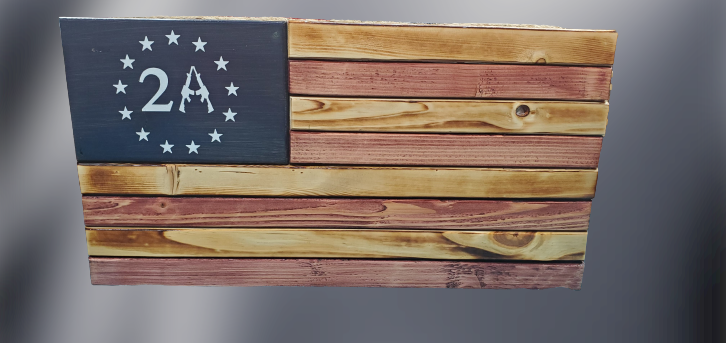
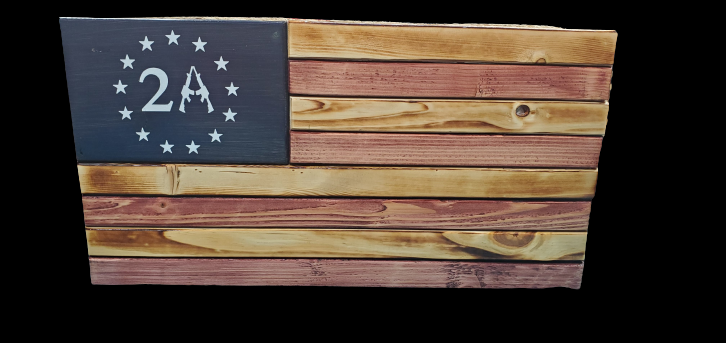
Updated catalog to have actual catalog images, updated order form for additional theme, awaiting 7th theme.

diff --git a/Ordering.html b/Ordering.html
@@ -40,6 +40,10 @@
                     <img class="image" src="./Assets/star5.jpg" />
                     <figcaption>Star 5</figcaption>
                 </figure>
+                <figure>
+                    <img class="image" src="./Assets/star6.png" />
+                    <figcaption>Star 6</figcaption>
+                </figure>
             </section>
             <p><strong>Stripes</strong></p>
             <section class="stripes">
@@ -183,18 +187,25 @@
                     <figcaption>Theme 5</figcaption>
                 </figure>
                 <figure>
+                    <img class="theme" src="./Assets/themes6.png" />
+                    <figcaption>Theme 6</figcaption>
             </section>
             <!-- <p><strong>Sizes</strong></p>
             <section class="sizes">
             </section> -->
         </section>
         <section class="orderForm">
-                            <div class="shipPay">
-                                <p>Shipping is Available!</p>
-                                <p>Payments are accepted by Credit or Debit card using Square <img class="logothumb" src="./Assets/Logos/SquaeLogo.jpg" alt= "Square" style="height: 25px; width: 25px"/>.</p>
-                                <p>I also accept: <img class="logothumb" src="./Assets/Logos/VenmoLogo.png" alt = "Venmo" style="height: 25px; width: 25px"/>, <img class="logothumb" src="./Assets/Logos/PayPalLogo.jpg" alt = "PayPal" style="height: 25px; width: 25px"/>, and <img class="logothumb" src="./Assets/Logos/CashAppLogo.png" alt="CashApp" style="height: 25px; width: 25px"/> for your convenience.</p>
-                                <p>What are we building today?</p>
-                            </div>
+            <div class="shipPay">
+                <p>Shipping is Available!</p>
+                <p>Payments are accepted by Credit or Debit card using Square <img class="logothumb"
+                        src="./Assets/Logos/SquaeLogo.jpg" alt="Square" style="height: 25px; width: 25px" />.</p>
+                <p>I also accept: <img class="logothumb" src="./Assets/Logos/VenmoLogo.png" alt="Venmo"
+                        style="height: 25px; width: 25px" />, <img class="logothumb" src="./Assets/Logos/PayPalLogo.jpg"
+                        alt="PayPal" style="height: 25px; width: 25px" />, and <img class="logothumb"
+                        src="./Assets/Logos/CashAppLogo.png" alt="CashApp" style="height: 25px; width: 25px" /> for your
+                    convenience.</p>
+                <p>What are we building today?</p>
+            </div>
             <form action="https://formspree.io/f/xwkyryzv" method="POST">
                 <p>
                     <label>Your email:</label>
@@ -212,6 +223,7 @@
                         <option value="Star3">Star 3</option>
                         <option value="Star4">Star 4</option>
                         <option value="Star5">Star 5</option>
+                        <option value="Star6">Star 6</option>
                     </select>
 
                 </p>
@@ -264,6 +276,12 @@
 
                 </p>
                 <p>
+                    <label>Themes:</label>
+                    <select name="theme" id="theme">
+                        
+                    </select>
+                </p>
+                <p>
                     <label>Size:</label>
                     <select name="size" id="size">
                         <option value="custom">Custom</option>
@@ -278,7 +296,7 @@
                     <label>Your message:</label>
                     <textarea name="message" placeholder="Any customization not covered above will go here."></textarea>
                 </p>
-                <br/>
+                <br />
                 <div class="button">
                     <div class="buttonRow">
                         <button type="submit" class="btn-primary">Send</button>

diff --git a/Catalog.html b/Catalog.html
@@ -16,38 +16,31 @@
         </nav>
     </header>
     <main class="main">
-      <h1 class="underconstruction">Pardon the mess as the catalog is gathered, collated and created!</h1>
-      <p>Group 1</p>
+      <h1>Welcome to the catalog, home of dreams come true.</h1>
       <section class="projects">
-            <img class="image" src="./Assets/Img3.jpg"/>
-            <img class="image" src="./Assets/Img1.jpg"/>
-            <img class="image" src="./Assets/Img2.jpg"/>
-            <img class="image" src="./Assets/Img4.jpg"/>
-            <img class="image" src="./Assets/Img5.jpg"/>
-            <img class="image" src="./Assets/Img7.jpg"/>
-            <img class="image" src="./Assets/Img6.jpg"/>
-            <img class="image" src="./Assets/Img8.jpg"/>
-            <img class="image" src="./Assets/Img9.jpg"/>
-            <img class="image" src="./Assets/Img10.jpg"/>
+            <img class="image" src="./Assets/catalog8.jpg"/>
+            <img class="image" src="./Assets/noflag1.png"/>
+            <img class="image" src="./Assets/noflag2.png"/>
+            <img class="image" src="./Assets/noflagcamp.jpg"/>
+            <img class="image" src="./Assets/noflagcrackerbox.png"/>
+            <img class="image" src="./Assets/noflagiu.png"/>
+            <img class="image" src="./Assets/noflagjack.jpg"/>
+            <img class="image" src="./Assets/noflagranch.png"/>
     </section>
 
-            <p>Group 2</p>
+            <p>Flags</p>
     <section class="projects">
-            <img class="image" src="./Assets/Img3.jpg"/>
-            <img class="image" src="./Assets/Img1.jpg"/>
-            <img class="image" src="./Assets/Img2.jpg"/>
-            <img class="image" src="./Assets/Img4.jpg"/>
-            <img class="image" src="./Assets/Img5.jpg"/>
-            <img class="image" src="./Assets/Img7.jpg"/>
-            <img class="image" src="./Assets/Img6.jpg"/>
-            <img class="image" src="./Assets/Img8.jpg"/>
-            <img class="image" src="./Assets/Img9.jpg"/>
-            <img class="image" src="./Assets/Img10.jpg"/>
-    </section>
-            <p>Group 3</p>
-    <section class="projects">
-            <img class="image" src="./Assets/Img3.jpg"/>
-            <img class="image" src="./Assets/Img1.jpg"/>
+            <img class="image" src="./Assets/catalog1.png"/>
+            <img class="image" src="./Assets/catalog2.png"/>
+            <img class="image" src="./Assets/catalog3.png"/>
+            <img class="image" src="./Assets/catalog4.png"/>
+            <img class="image" src="./Assets/catalog5.png"/>
+            <img class="image" src="./Assets/catalog6.png"/>
+            <img class="image" src="./Assets/catalog7.png"/>
+            <img class="image" src="./Assets/catalog9.png"/>
+            <img class="image" src="./Assets/catalog10.png"/>
+            <img class="image" src="./Assets/catalog11.png"/>
+            <!-- <img class="image" src="./Assets/Img1.jpg"/>
             <img class="image" src="./Assets/Img2.jpg"/>
             <img class="image" src="./Assets/Img4.jpg"/>
             <img class="image" src="./Assets/Img5.jpg"/>
@@ -94,7 +87,7 @@
             <img class="image" src="./Assets/Img6.jpg"/>
             <img class="image" src="./Assets/Img8.jpg"/>
             <img class="image" src="./Assets/Img9.jpg"/>
-            <img class="image" src="./Assets/Img10.jpg"/>
+            <img class="image" src="./Assets/Img10.jpg"/> -->
       </section>
     </main>
 </body>

diff --git a/Styles/Ordering.css b/Styles/Ordering.css
@@ -9,8 +9,8 @@
 
 body {
     height: auto;
-    background-image: url('../Assets/Orderbg.jpg');
-        background-size: cover;
+    background-color: black;
+    color: white;
 }
 
 html {
@@ -66,8 +66,8 @@ h1 {
 }
 
 .options img {
-    height: 100px;
-    width: 100px;
+    height: 300px;
+    width: 400px;
     margin:20px;
     border: 1px solid silver;
 }

diff --git a/Styles/Catalog.css b/Styles/Catalog.css
@@ -71,8 +71,8 @@ p {
     margin-left: 1rem;
 }
 .image {
-    height: 18%;
-    width: 15%;
+    height: 100%;
+    width: 100%;
     margin: 1%;
 }
 

diff --git a/Styles/LandingPage.CSS b/Styles/LandingPage.CSS
@@ -9,6 +9,8 @@
 
 body { 
     height: auto;
+    background-color: black;
+    color: white;
 }
 html {
     font-size: 16px;
